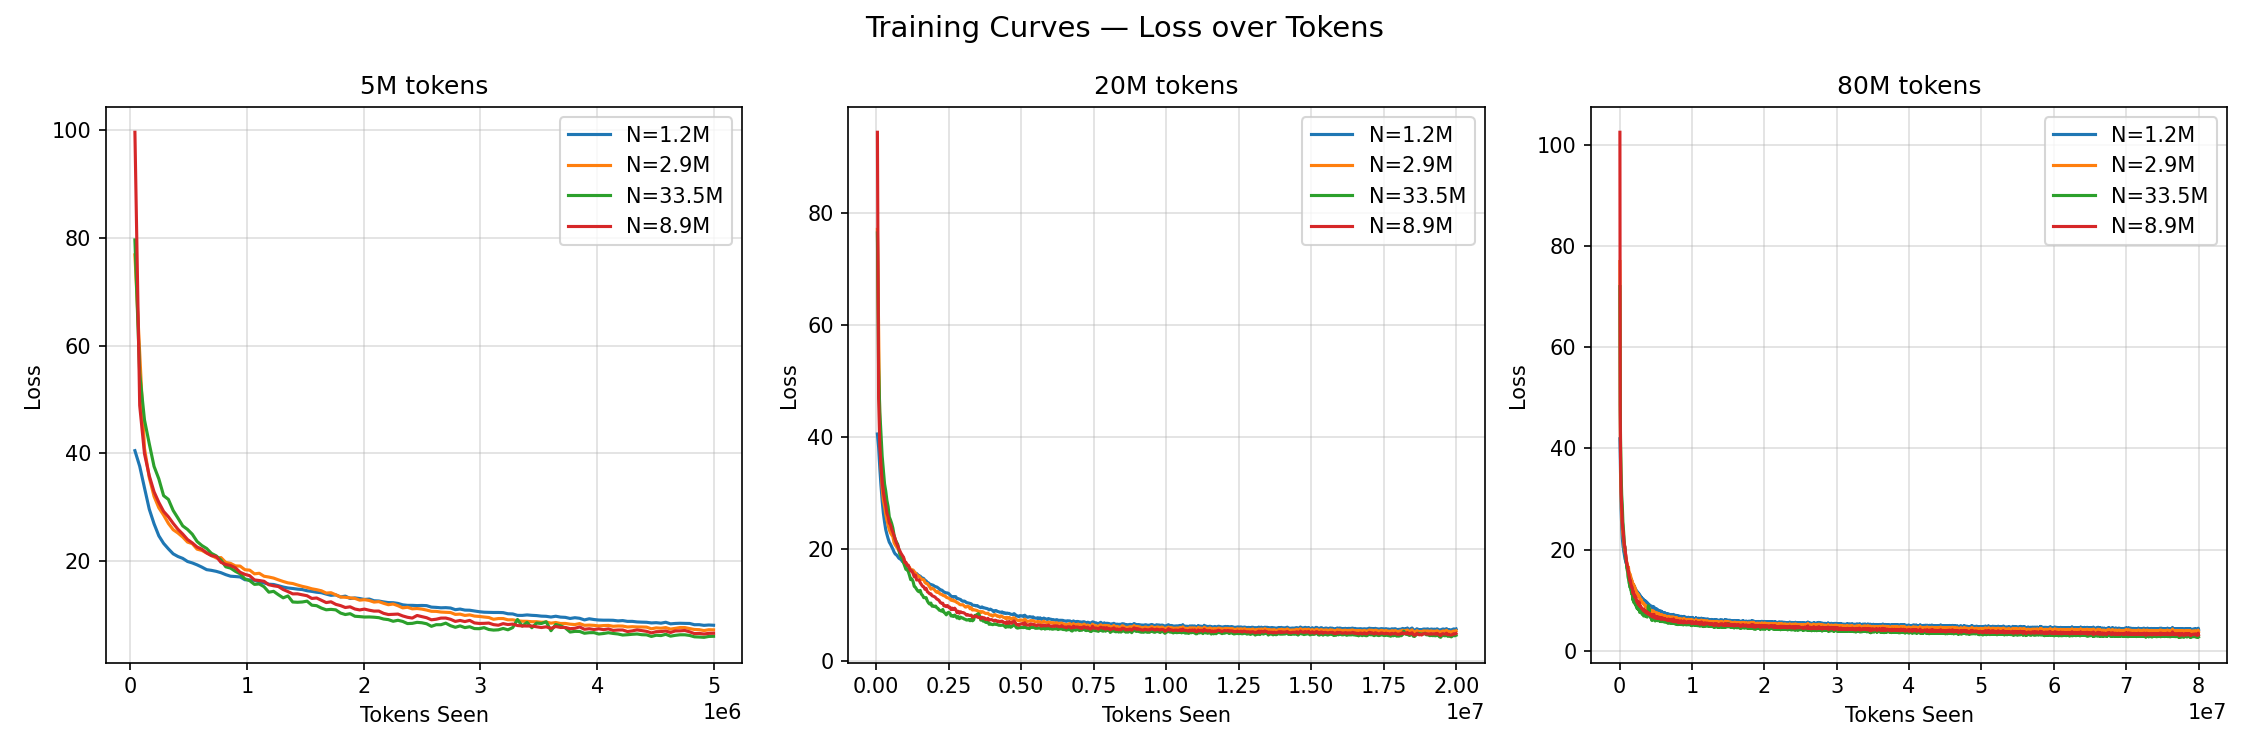
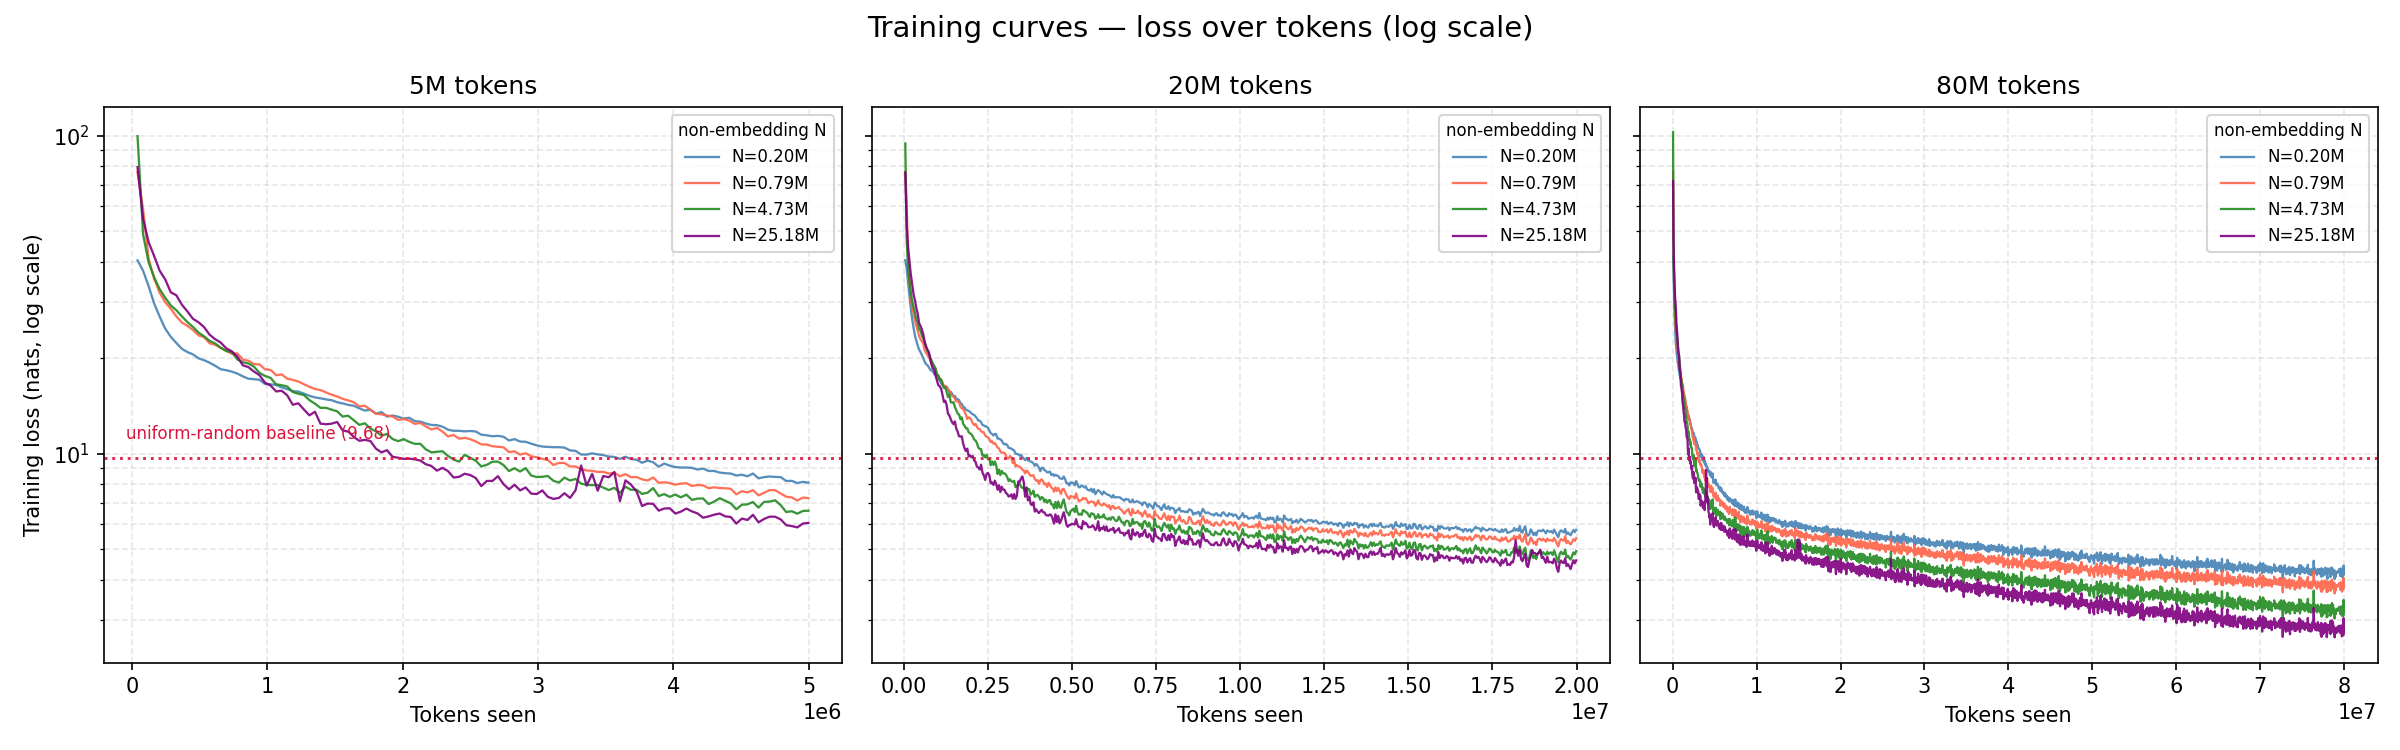
fix: correct the training curves plot
Four separate problems, one of which turned out to matter.

Sorting. glob results were sorted as strings, so curve_N33506304 came
before curve_N8886784 and both the legend order and the colour
assignment were scrambled. Now sorted numerically by model size, with
colour keyed to size and consistent across panels.

Labels. Curve files are named by total parameters, so the labels still
read 1.2M/2.9M/8.9M/33.5M while every other plot and both write-ups had
moved to non-embedding N. Filenames are now mapped through the grid, so
the panels agree with the rest of the project.

Axis. A linear y axis with an opening spike above 100 nats crushed the
entire informative range into a line along the bottom. Now log scale.

Baseline. Draws ln(16000) = 9.68, the loss of a uniform predictor.

That last one exposes a real defect rather than a plotting issue. Every
run starts between 40 and 102 nats -- four to ten times worse than
guessing at random -- because model.py defines no initialisation, so
nn.Embedding keeps PyTorch's default N(0,1) and, with the LM head
weight-tied to it, initial logits have std ~sqrt(d_model) rather than
~0.02*sqrt(d_model). GPT-2 uses std 0.02 for this reason.

The cost is not uniform across the grid: the 5M-token runs need 2-4M
tokens just to reach random-guessing loss, roughly half their budget,
against a few percent for the 80M-token runs. That inflates loss at low
D and steepens b_D, so the steep data exponent has two contributing
[…]

diff --git a/scripts/plot_curves.py b/scripts/plot_curves.py
@@ -1,35 +1,99 @@
-import pandas as pd
-import matplotlib
-matplotlib.use("Agg")  # never block run_all.sh on an interactive window
-import matplotlib.pyplot as plt
+"""Training curves: loss over tokens, one panel per token budget.
+
+Curve files are named by *total* parameters (that is what train.py had when the
+sweep ran), but everything else in this project reports non-embedding N, so the
+filename count is mapped through the grid before labelling. Colour is keyed to
+model size and kept consistent across panels.
+
+The y axis is logarithmic and the uniform-random baseline is drawn in. Both are
+necessary rather than decorative: every run starts far ABOVE random-guessing
+loss, and on a linear axis that opening spike flattens the entire rest of the
+curve into an unreadable line along the bottom.
+
+    python scripts/plot_curves.py
+"""
+
 import glob
 import os
+import sys
 
-curve_files = sorted(glob.glob("curves/curve_N*_D*.csv"))
+import matplotlib
+matplotlib.use("Agg")  # never block run_all.sh on an interactive window
 
-fig, axes = plt.subplots(1, 3, figsize=(15, 5))
-fig.suptitle("Training Curves — Loss over Tokens", fontsize=14)
+import matplotlib.pyplot as plt
+import numpy as np
+import pandas as pd
 
-token_groups = {5000000: 0, 20000000: 1, 80000000: 2}
-token_labels = {5000000: "5M tokens", 20000000: "20M tokens", 80000000: "80M tokens"}
+sys.path.insert(0, os.path.dirname(os.path.abspath(__file__)))
+from recompute_params import build_lookup
 
-for f in curve_files:
-    name = os.path.basename(f).replace("curve_", "").replace(".csv", "")
-    parts = name.split("_")
-    n_params = int(parts[0][1:])
-    n_tokens = int(parts[1][1:])
+VOCAB_SIZE = 16000
+RANDOM_BASELINE = np.log(VOCAB_SIZE)  # 9.68 nats
 
-    df = pd.read_csv(f)
-    ax = axes[token_groups[n_tokens]]
-    ax.plot(df["tokens_seen"], df["loss"], label=f"N={n_params/1e6:.1f}M")
+TOKEN_PANELS = {5000000: 0, 20000000: 1, 80000000: 2}
+TOKEN_LABELS = {5000000: "5M tokens", 20000000: "20M tokens", 80000000: "80M tokens"}
 
-for n_tokens, idx in token_groups.items():
-    axes[idx].set_title(token_labels[n_tokens])
-    axes[idx].set_xlabel("Tokens Seen")
-    axes[idx].set_ylabel("Loss")
-    axes[idx].legend()
-    axes[idx].grid(True, alpha=0.4)
+lookup = build_lookup()
+
+curves = []
+for path in glob.glob("curves/curve_N*_D*.csv"):
+    name = os.path.basename(path).replace("curve_", "").replace(".csv", "")
+    total_params_str, tokens_str = name.split("_")
+    total_params = int(total_params_str[1:])
+    n_tokens = int(tokens_str[1:])
+
+    if total_params not in lookup:
+        print(f"  skipping {path}: n_params={total_params} matches no grid config")
+        continue
+
+    curves.append({
+        "path": path,
+        "n_params": total_params,
+        "n_params_non_embed": lookup[total_params]["n_params_non_embed"],
+        "n_tokens": n_tokens,
+    })
+
+if not curves:
+    raise SystemExit("No curve files found under curves/.")
+
+# Sort numerically by model size. The previous version sorted filenames as
+# strings, which put N33506304 before N8886784 and scrambled both the legend
+# order and the colour assignment.
+curves.sort(key=lambda c: (c["n_tokens"], c["n_params_non_embed"]))
+
+sizes = sorted({c["n_params_non_embed"] for c in curves})
+palette = ["steelblue", "tomato", "forestgreen", "purple"]
+colors = dict(zip(sizes, palette))
+
+fig, axes = plt.subplots(1, 3, figsize=(16, 5), sharey=True)
+fig.suptitle("Training curves — loss over tokens (log scale)", fontsize=14)
+
+for c in curves:
+    ax = axes[TOKEN_PANELS[c["n_tokens"]]]
+    df = pd.read_csv(c["path"])
+    ax.plot(df["tokens_seen"], df["loss"], lw=1.1, alpha=0.9,
+            color=colors[c["n_params_non_embed"]],
+            label=f"N={c['n_params_non_embed']/1e6:.2f}M")
+
+for n_tokens, idx in TOKEN_PANELS.items():
+    ax = axes[idx]
+    ax.axhline(RANDOM_BASELINE, color="crimson", ls=":", lw=1.4, alpha=0.9)
+    ax.set_title(TOKEN_LABELS[n_tokens])
+    ax.set_xlabel("Tokens seen")
+    ax.set_yscale("log")
+    ax.grid(True, which="both", ls="--", alpha=0.3)
+    ax.legend(fontsize=8, title="non-embedding N", title_fontsize=8)
+
+axes[0].set_ylabel("Training loss (nats, log scale)")
+axes[0].text(0.03, RANDOM_BASELINE * 1.15,
+             f"uniform-random baseline ({RANDOM_BASELINE:.2f})",
+             fontsize=8, color="crimson", transform=axes[0].get_yaxis_transform())
 
 plt.tight_layout()
 plt.savefig("plots/training_curves.png", dpi=150)
 print("Saved to plots/training_curves.png")
+
+worst = max(pd.read_csv(c["path"])["loss"].max() for c in curves)
+print(f"Peak logged loss across all runs: {worst:.1f} nats "
+      f"({worst / RANDOM_BASELINE:.1f}x the uniform-random baseline of "
+      f"{RANDOM_BASELINE:.2f}) -- see the initialisation note in the README.")

diff --git a/README.md b/README.md
@@ -94,7 +94,11 @@ Where the grid does allow a matched comparison, the direction is unambiguous and
 
 ![Loss over tokens, grouped by token budget](plots/training_curves.png)
 
-Every curve is still descending steeply at cutoff. None of these runs converged — by design (the brief asks for the trend, not convergence) and by consequence (see [Limitations](#limitations)).
+Every curve is still descending steeply at cutoff — none of these runs converged, by design (the brief asks for the trend, not convergence) and by consequence (see [Limitations](#limitations)).
+
+The red line is the uniform-random baseline, and it exposes a defect worth stating plainly: **every run begins between 40 and 102 nats, four to ten times worse than random guessing.** A correctly initialized model starts at ln(16000) = 9.68. The cause is initialization — `model.py` never defines an init, so `nn.Embedding` keeps PyTorch's default N(0, 1), and since the LM head is weight-tied to that table the output logits start with standard deviation ≈ √d_model instead of ≈ 0.02·√d_model. GPT-2 uses std 0.02 for exactly this reason.
+
+The cost lands unevenly, which is why it matters for the fits. In the 5M-token panel the models do not even reach random-guessing loss until 2–4M tokens in — **roughly half the shortest runs is spent undoing the initialization**, versus a few percent of the 80M-token runs. That inflates loss at low D specifically, which steepens `b_D`. So the steep data exponent has two contributing causes, not one: the constant learning rate and this. Neither is separable from the published numbers without re-running.
 
 ---
 
@@ -222,13 +226,15 @@ A decoder-only transformer in PyTorch, randomly initialized per run — no pretr
 
 × token budgets **5M / 20M / 80M** = 12 runs.
 
-AdamW, lr 3e-4 constant, batch 32 × 256 tokens = 8,192 tokens/step — so the budgets are 610 / 2,441 / 9,766 optimizer steps. Validation loss is mean cross-entropy over 50 held-out batches (~410k tokens).
+AdamW, lr 3e-4 constant, batch 32 × 256 tokens = 8,192 tokens/step — so the budgets are 611 / 2,442 / 9,766 optimizer steps. Validation loss is mean cross-entropy over 50 held-out batches (~410k tokens).
 
 ---
 
 ## Limitations
 
-**Nothing converged, and D is entangled with optimizer progress.** The dominant caveat. At constant LR with no warmup or decay, the 5M-token runs get 610 steps; their losses (6–8 nats against a 9.68 random baseline) are transient, not performance. The D axis therefore partly measures where training was stopped rather than how much data was seen — the main reason `b_D` lands at -0.254 against Kaplan's -0.095. A cosine schedule with warmup, length-matched per run, is the first thing to fix.
+**Weight initialization is left at PyTorch defaults.** `nn.Embedding` defaults to N(0, 1), and with the LM head weight-tied to it, initial logits are ~50× larger than they should be — every run starts 4–10× worse than random guessing and burns a large fraction of the short runs recovering. This inflates loss at low D and is a second, independent contributor to the steep `b_D`, alongside the constant learning rate. Fixing it means GPT-2-style init (std 0.02, with residual projections scaled by 1/√(2·n_layers)) and a re-run.
+
+**Nothing converged, and D is entangled with optimizer progress.** The dominant caveat. At constant LR with no warmup or decay, the 5M-token runs get 611 steps; their losses (6–8 nats against a 9.68 random baseline) are transient, not performance. The D axis therefore partly measures where training was stopped rather than how much data was seen — the main reason `b_D` lands at -0.254 against Kaplan's -0.095. A cosine schedule with warmup, length-matched per run, is the first thing to fix.
 
 **The grid is factorial, not iso-FLOP.** Good for clean marginals in N and D, weak for a compute exponent (R² = 0.66, error bar larger than the estimate). Deriving a trustworthy compute-optimal frontier needs iso-FLOP profiles: fix a budget, sweep the (N, D) split, find the minimum.
 

diff --git a/report/report.md b/report/report.md
@@ -123,7 +123,7 @@ Individual slices fit their power laws tightly (R² between 0.98 and 0.9999), so
 
 **Parameters.** The measured exponent of -0.065 ± 0.016 brackets Kaplan's -0.076. Given that this sweep spans roughly 1.3 decades of N against Kaplan's six, the agreement is closer than the scale difference would justify expecting, and should be read as encouraging rather than as a precise confirmation.
 
-**Training tokens.** At -0.254, the data exponent is 2.7× steeper than Kaplan's -0.095, and this is a genuine deviation rather than a scale effect. The cause is identifiable: with a constant learning rate and no schedule, increasing D also increases the number of optimizer steps taken (610, 2,441, and 9,766 steps for the three budgets). Because no run reached convergence, the D axis conflates "how much data the model saw" with "how far into optimization training was stopped," and both contribute to the loss reduction. The exponent should be read as an upper bound on the true data exponent for this setup.
+**Training tokens.** At -0.254, the data exponent is 2.7× steeper than Kaplan's -0.095, and this is a genuine deviation rather than a scale effect. The cause is identifiable: with a constant learning rate and no schedule, increasing D also increases the number of optimizer steps taken (611, 2,442 and 9,766 steps for the three budgets). Because no run reached convergence, the D axis conflates "how much data the model saw" with "how far into optimization training was stopped," and both contribute to the loss reduction. The exponent should be read as an upper bound on the true data exponent for this setup.
 
 ## Joint Fit
 
@@ -170,7 +170,7 @@ The uncertainty exceeds the estimate. This is a property of the experimental des
 
 # Limitations
 
-- **No learning rate schedule, and no run converged.** This is the dominant limitation. A constant lr=3e-4 was used with no warmup or decay, so increasing D also increases optimizer steps, and the D exponent measures optimization progress alongside data. The three budgets correspond to 610, 2,441 and 9,766 steps; the shortest runs end at 6–8 nats against a 9.68-nat random baseline, meaning they capture the initial transient rather than converged performance. A cosine schedule with warmup, length-matched per run, is the first correction to make.
+- **No learning rate schedule, and no run converged.** This is the dominant limitation. A constant lr=3e-4 was used with no warmup or decay, so increasing D also increases optimizer steps, and the D exponent measures optimization progress alongside data. The three budgets correspond to 611, 2,442 and 9,766 steps; the shortest runs end at 6–8 nats against a 9.68-nat random baseline, meaning they capture the initial transient rather than converged performance. A cosine schedule with warmup, length-matched per run, is the first correction to make.
 - **Factorial rather than iso-FLOP grid.** Well suited to isolating the N and D axes cleanly, poorly suited to estimating a compute exponent or locating an allocation frontier (R² = 0.66 on the compute fit).
 - **Untuned learning rate across a 127× parameter range.** The optimal learning rate shifts with model width, so a single value handicaps some sizes relative to others in an unknown direction.
 - **Unseeded model initialisation.** The data shuffle is seeded (`default_rng(42)`), but `torch.manual_seed` is never called, so runs are not bitwise reproducible. With one run per grid cell there is no variance estimate; the uncertainties quoted here are spreads across slices, not across seeds.
